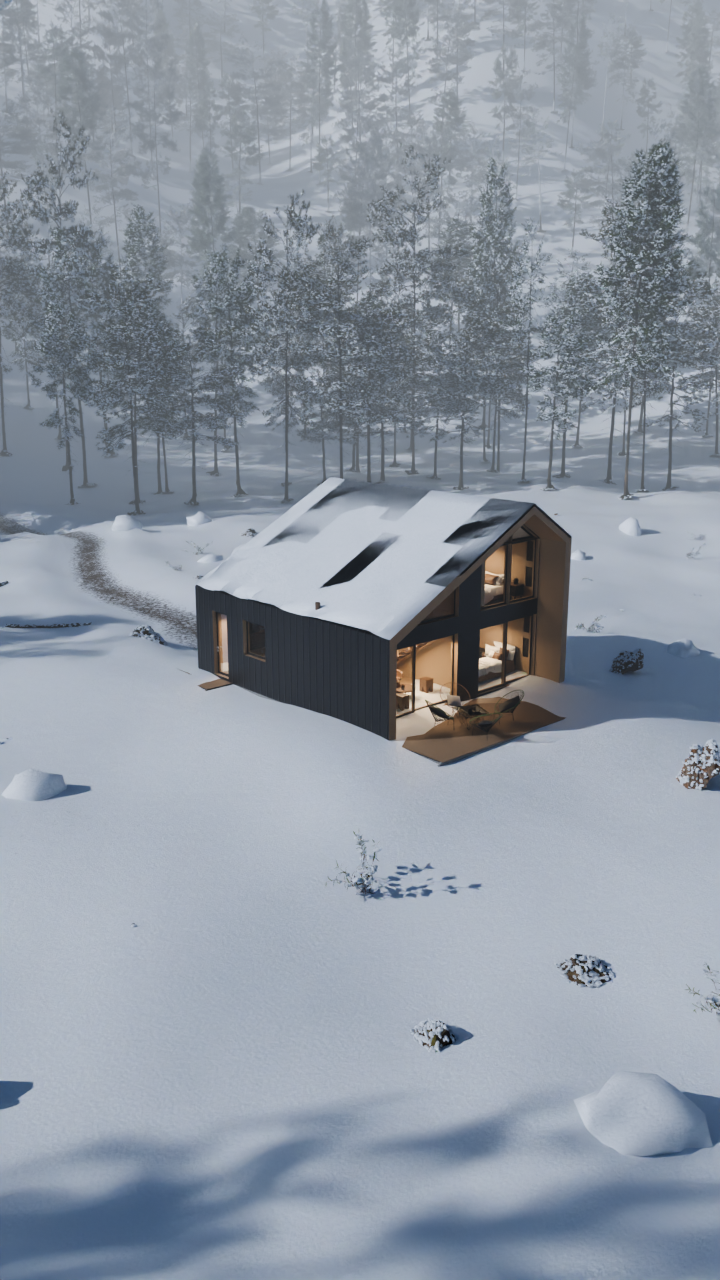
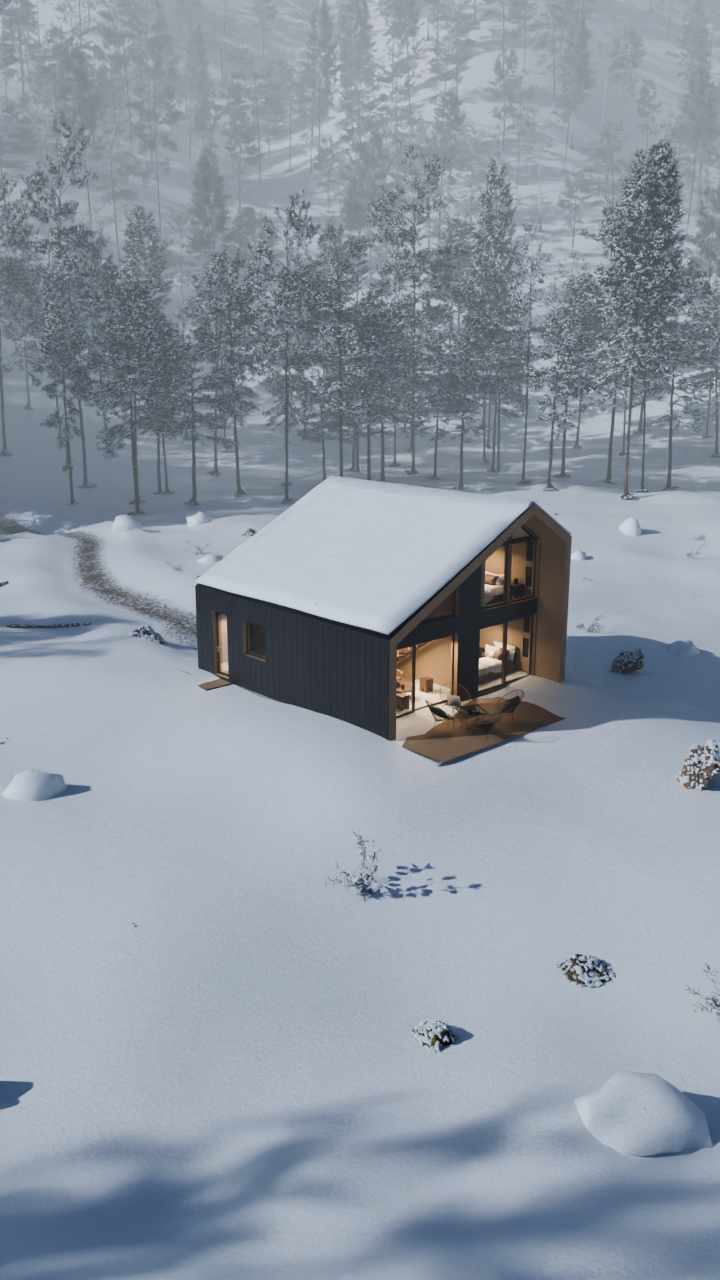
Peumo: la nieve del techo, entera y sin fajas
Las fajas desprendidas hacían ver el techo parchado, con líneas que lo quebraban.
Ahora la capa va de una sola pieza y lo único que cambia es el espesor, de forma
suave: más delgada en la cumbrera, más gruesa contra el alero, con la cornisa
doblándose en el borde.

Claude-Session: https://claude.ai/code/session_01EHD4cEPhnZPJhpXhvTg9hJ

diff --git a/casa_peumo_3d.py b/casa_peumo_3d.py
@@ -750,10 +750,11 @@ def nevar(o, M, dens=110.0, tam=0.075, umbral=0.45, solo=None, mat="nieve_rama")
 def nieve_sobre_techo(casco, M):
     """Capa de nieve del techo, modelada en vez de esparcida.
 
-    Los grumos sueltos daban una capa pareja y mullida que parecía plumavit, y eso en un techo a
-    28° no pasa: la nieve se desliza. Lo que queda es una cuña —casi nada en la cumbrera, gruesa
-    contra el alero, donde se frena— cortada por fajas peladas en el sentido de la pendiente, que
-    son los desprendimientos, y asomada por el borde en una cornisa que se dobla hacia abajo.
+    Los grumos sueltos daban una capa de bolitas que parecía plumavit. Acá la nieve es una sola
+    pieza continua, que es como se ve de verdad: una cuña —más delgada en la cumbrera, más gruesa
+    contra el alero, donde se frena al deslizar— asomada por el borde en una cornisa que se dobla
+    hacia abajo. El espesor varía suave, sin cortes: las fajas desprendidas se probaron y hacían
+    ver el techo parchado.
 
     Se construye duplicando las caras de chapa que miran al cielo, subdividiéndolas y corriendo
     cada vértice por su normal según ese espesor. El espesor queda guardado por vértice para que
@@ -787,17 +788,16 @@ def nieve_sobre_techo(casco, M):
     for v in bm.verts:
         t = (v.co.z - z_alero) / max(z_cum - z_alero, 1e-6)
         t = 1.0 - t                                   # 0 en la cumbrera, 1 en el alero
-        # las fajas peladas corren en el sentido de la pendiente: ruido largo en x, corto en y
-        faja = noise.noise(Vector((v.co.x / 9.0, v.co.y / 1.1, 67.0)))
-        queda = min(1.0, max(0.0, (faja + 0.45 * t - 0.06) / 0.22))
-        e = 0.30 * (0.05 + 0.95 * t ** 1.6) * queda
-        e *= 0.8 + 0.4 * noise.noise(Vector((v.co.x / 0.8, v.co.y / 0.8, 83.0)))
+        # la capa va entera: nada de fajas peladas, que cortaban el techo y lo hacían ver
+        # irregular. Lo que varía es el espesor, y de forma suave, sin bordes.
+        e = 0.30 * (0.30 + 0.70 * t ** 1.3)
+        e *= 0.88 + 0.24 * noise.noise(Vector((v.co.x / 2.6, v.co.y / 2.6, 83.0)))
         espesor[v] = e
     # la cornisa: en el borde del alero la nieve sobresale y se dobla
     for v in bm.verts:
         if any(len(e.link_faces) == 1 for e in v.link_edges) and espesor[v] > 0.04:
             t = 1.0 - (v.co.z - z_alero) / max(z_cum - z_alero, 1e-6)
-            if t > 0.86:
+            if t > 0.84:
                 baja = Vector((v.normal.x, v.normal.y, 0.0))
                 if baja.length > 1e-6:
                     v.co += baja.normalized() * 0.18
